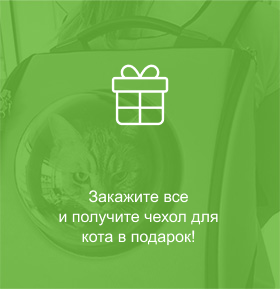
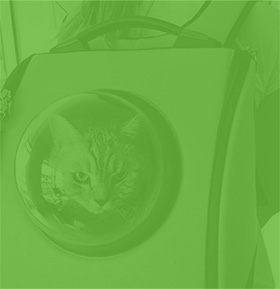
Стилизация страницы каталога

Changed region(s): [[0.2, 0.654, 0.8, 0.8408], [0.4, 0.218, 0.6286, 0.436]]

diff --git a/source/catalog.html b/source/catalog.html
@@ -7,7 +7,7 @@
   </head>
   <body>
     <header class="page-header">
-      <a class="page-header__logo">
+      <a class="page-header__logo" href="index.html">
         <svg class="page-header__logo-icon" width="34" height="38" viewBox="0 0 34 38" fill="none" xmlns="http://www.w3.org/2000/svg">
           <g clip-path="url(#clip0)">
           <path d="M6.07 20.72V18.46C12.7536 17.5423 19.4937 17.0979 26.24 17.13C26.24 17.73 26.24 18.34 26.18 18.95C28.0976 18.099 30.1128 17.4877 32.18 17.13C30.8625 13.722 28.4618 10.8412 25.3471 8.93087C22.2324 7.02052 18.5764 6.1864 14.9414 6.55683C11.3064 6.92727 7.89379 8.48172 5.22852 10.9811C2.56325 13.4804 0.792969 16.7863 0.190001 20.39L6.07 20.72Z" fill="#FDC305"/>
@@ -46,13 +46,13 @@
           </defs>
           </svg>
       </a>
-      <nav class="main-nav">
+      <nav class="page-header__main-nav main-nav">
         <button class="main-nav__toggle" type="button"><span class="visually-hidden">Открыть меню</span></button>
         <div class="main-nav__wrapper">
           <ul class="main-nav__list">
-            <li class="main-nav__item main-nav__item--current"><a href="#">Главная</a></li>
-            <li class="main-nav__item"><a href="#">Каталог продукции</a></li>
-            <li class="main-nav__item"><a href="#">Подбор программы</a></li>
+            <li class="main-nav__item"><a href="index.html">Главная</a></li>
+            <li class="main-nav__item main-nav__item--current"><a href="#">Каталог продукции</a></li>
+            <li class="main-nav__item"><a href="form.html">Подбор программы</a></li>
           </ul>
         </div>
       </nav>
@@ -60,9 +60,9 @@
 
     <main class="page-main">
       <div class="catalog">
-        <h1 class="catalog__title page-title">Каталог продукции</h1>
+        <h1 class="catalog__title page-title page-title--catalog">Каталог продукции</h1>
         <article class="catalog__card card">
-          <a class="card__link-img" href="#"><img class="card__img"></a>
+          <a class="card__link-img" href="#"><img class="card__img" src="/img/chicken-500.jpg" alt="Оранжевая упаковка со вкусом курицы весом 500г"></a>
           <h2 class="card__title product-title"><a class="card__link-title" href="#">Cat Energy pro 500 г</a></h2>
           <div class="card__meta table">
             <table class="table__body">
@@ -80,10 +80,10 @@
               </tr>
             </table>
           </div>
-          <a class="card__button button" href="form.html">Заказать</a>
+          <a class="card__button button button--order" href="form.html">Заказать</a>
         </article>
         <article class="catalog__card card">
-          <a class="card__link-img" href="#"><img class="card__img"></a>
+          <a class="card__link-img" href="#"><img class="card__img" src="/img/chicken-1000.jpg" alt="Оранжевая упаковка со вкусом курицы весом 1000г"></a>
           <h2 class="card__title product-title"><a class="card__link" href="#">Cat Energy pro 1000 г</a></h2>
           <div class="card__meta table">
             <table class="table__body">
@@ -101,10 +101,10 @@
               </tr>
             </table>
           </div>
-          <a class="card__button button" href="form.html">Заказать</a>
+          <a class="card__button button button--order" href="form.html">Заказать</a>
         </article>
         <article class="catalog__card card">
-          <a class="card__link-img" href="#"><img class="card__img"></a>
+          <a class="card__link-img" href="#"><img class="card__img" src="/img/fish-500.jpg" alt="Зеленая упаковка со вкусом рыбы весом 500г"></a>
           <h2 class="card__title product-title"><a class="card__link" href="#">Cat Energy pro 500 г</a></h2>
           <div class="card__meta table">
             <table class="table__body">
@@ -122,10 +122,10 @@
               </tr>
             </table>
           </div>
-          <a class="card__button button" href="form.html">Заказать</a>
+          <a class="card__button button button--order" href="form.html">Заказать</a>
         </article>
         <article class="catalog__card card">
-          <a class="card__link-img" href="#"><img class="card__img"></a>
+          <a class="card__link-img" href="#"><img class="card__img" src="/img/fish-1000.jpg" alt="Зеленая упаковка со вкусом рыбы весом 1000г"></a>
           <h2 class="card__title product-title"><a class="card__link" href="#">Cat Energy pro 1000 г</a></h2>
           <div class="card__meta table">
             <table class="table__body">
@@ -143,10 +143,10 @@
               </tr>
             </table>
           </div>
-          <a class="card__button button" href="form.html">Заказать</a>
+          <a class="card__button button button--order" href="form.html">Заказать</a>
         </article>
         <article class="catalog__card card">
-          <a class="card__link-img" href="#"><img class="card__img"></a>
+          <a class="card__link-img" href="#"><img class="card__img" src="/img/buckwheat-500.jpg" alt="Синяя упаковка со вкусом гречки весом 500г"></a>
           <h2 class="card__title product-title"><a class="card__link" href="#">Cat Energy pro 500 г</a></h2>
           <div class="card__meta table">
             <table class="table__body">
@@ -164,10 +164,10 @@
               </tr>
             </table>
           </div>
-          <a class="card__button button" href="form.html">Заказать</a>
+          <a class="card__button button button--order" href="form.html">Заказать</a>
         </article>
         <article class="catalog__card card">
-          <a class="card__link-img" href="#"><img class="card__img"></a>
+          <a class="card__link-img" href="#"><img class="card__img" src="/img/buckwheat-1000.jpg" alt="Синяя упаковка со вкусом гречки весом 1000г"></a>
           <h2 class="card__title product-title"><a class="card__link" href="#">Cat Energy pro 1000 г</a></h2>
           <div class="card__meta table">
             <table class="table__body">
@@ -185,10 +185,10 @@
               </tr>
             </table>
           </div>
-          <a class="card__button button" href="form.html">Заказать</a>
+          <a class="card__button button button--order" href="form.html">Заказать</a>
         </article>
         <article class="catalog__card card">
-          <a class="card__link-img" href="#"><img class="card__img"></a>
+          <a class="card__link-img" href="#"><img class="card__img" src="/img/rice-500.jpg" alt="Фиолетовая упаковка со вкусом риса весом 500г"></a>
           <h2 class="card__title product-title"><a class="card__link" href="#">Cat Energy pro 500 г</a></h2>
           <div class="card__meta table">
             <table class="table__body">
@@ -206,49 +206,56 @@
               </tr>
             </table>
           </div>
-          <a class="card__button button" href="form.html">Заказать</a>
+          <a class="card__button button button--order" href="form.html">Заказать</a>
         </article>
 
         <div class="catalog__more more">
           <svg class="more__vertical-line"></svg>
           <svg class="more__horizontal-line"></svg>
-          <p class="more__title product-title">Показать ещё 100500 товаров</p>
+          <p class="more__title product-title product-title--more">Показать ещё 100500 товаров</p>
           <p class="more__lead">На самом деле вкусов гораздо больше!</p>
-          <button class="more__button button-show-all">Показать все</button>
+          <button class="more__button button button--show-all">Показать все</button>
         </div>
 
         <div class="catalog__add">
           <h2 class="catalog__add-title">Дополнительные товары</h2>
           <div class="catalog__add-item add">
-            <p class="add__title product-title-add">Сахарозаменитель</p>
+            <p class="add__title product-title product-title--add">Сахарозаменитель</p>
             <p class="add__name">1 упаковка (100 г)</p>
             <p class="add__data">200 Р.</p>
-            <a class="add__button button" href="form.html">Заказать</a>
+            <a class="add__button button button--order" href="form.html">Заказать</a>
           </div>
 
           <div class="catalog__add-item add">
-            <p class="add__title product-title-add">Питьевая вода</p>
+            <p class="add__title product-title product-title--add">Питьевая вода</p>
             <p class="add__name">5 литров</p>
             <p class="add__data">50 Р.</p>
-            <a class="add__button button" href="form.html">Заказать</a>
+            <a class="add__button button button--order" href="form.html">Заказать</a>
           </div>
 
           <div class="catalog__add-item add">
-            <p class="add__title product-title-add">Молоко</p>
+            <p class="add__title product-title product-title--add">Молоко</p>
             <p class="add__name">1 литр</p>
             <p class="add__data">100 Р.</p>
-            <a class="add__button button" href="form.html">Заказать</a>
+            <a class="add__button button button--order" href="form.html">Заказать</a>
           </div>
 
           <div class="catalog__add-item add">
-            <p class="add__title product-title-add">Витамины</p>
+            <p class="add__title product-title product-title--add">Витамины</p>
             <p class="add__name">1 упаковка (30 г)</p>
             <p class="add__data">300 Р.</p>
-            <a class="add__button button" href="form.html">Заказать</a>
+            <a class="add__button button button--order" href="form.html">Заказать</a>
           </div>
 
-          <div class="catalog__add-item offer">
-            <svg class="offer__icon-gift"></svg>
+          <div class="catalog__add-offer offer">
+            <svg class="offer__icon-gift" width="78" height="80" viewBox="0 0 78 80" fill="none" xmlns="http://www.w3.org/2000/svg">
+              <path d="M64.0156 34.7129H14.031C12.2766 34.7129 10.8494 33.2954 10.8494 31.5526V22.0845C10.8494 20.3417 12.2766 18.9236 14.031 18.9236H64.0149C65.7687 18.9236 67.1953 20.3417 67.1953 22.0845V31.5533C67.1959 33.2954 65.7693 34.7129 64.0156 34.7129ZM14.031 21.3457C13.6276 21.3457 13.2869 21.6842 13.2869 22.0845V31.5533C13.2869 31.9602 13.6208 32.2914 14.031 32.2914H64.0149C64.4244 32.2914 64.7578 31.9602 64.7578 31.5533V22.0845C64.7578 21.6836 64.4171 21.3457 64.0149 21.3457H14.031Z" fill="white"/>
+              <path d="M57.0447 67.1491H20.999C17.6218 67.1491 14.8741 64.4193 14.8741 61.0628V33.5018C14.8741 32.8333 15.4201 32.2908 16.0929 32.2908C16.7656 32.2908 17.3116 32.8333 17.3116 33.5018V61.0628C17.3116 63.0835 18.9661 64.7269 20.999 64.7269H57.0447C59.077 64.7269 60.7308 63.0835 60.7308 61.0628V33.5018C60.7308 32.8333 61.2768 32.2908 61.9496 32.2908C62.6223 32.2908 63.1683 32.8333 63.1683 33.5018V61.0628C63.1683 64.4193 60.4213 67.1491 57.0447 67.1491Z" fill="white"/>
+              <path d="M39.0225 67.1491C38.3498 67.1491 37.8038 66.6071 37.8038 65.938V33.5018C37.8038 32.8333 38.3498 32.2908 39.0225 32.2908C39.6953 32.2908 40.2413 32.8333 40.2413 33.5018V65.9374C40.2413 66.6071 39.6959 67.1491 39.0225 67.1491Z" fill="white"/>
+              <path d="M23.8113 21.3416C19.9966 19.2876 18.5731 14.533 20.6383 10.7417C22.7022 6.95225 27.4864 5.53711 31.303 7.58746C37.117 10.7169 40.2565 19.4475 40.3869 19.8175L38.0877 20.621C38.0585 20.5387 35.1256 12.3997 30.1433 9.71773C27.5078 8.30199 24.2062 9.27933 22.7821 11.8946C21.3567 14.5124 22.339 17.7944 24.9734 19.2119L23.8113 21.3416Z" fill="white"/>
+              <path d="M54.2313 21.3416L53.071 19.2113C54.3477 18.524 55.2782 17.385 55.6926 16.0038C56.1063 14.622 55.9534 13.1626 55.2617 11.8952C54.5719 10.6266 53.4263 9.70258 52.0363 9.29142C50.6457 8.88026 49.1783 9.03164 47.9023 9.71771C42.9201 12.399 39.9871 20.538 39.9579 20.6204L37.6587 19.8168C37.7891 19.4469 40.928 10.7162 46.7421 7.58744C48.5897 6.59315 50.7182 6.37394 52.7316 6.96979C54.7468 7.56503 56.4061 8.90508 57.4061 10.7417C58.4073 12.5777 58.6285 14.6916 58.0289 16.6941C57.4287 18.696 56.0801 20.3461 54.2313 21.3416Z" fill="white"/>
+              <path d="M61.9496 50.9317H16.0929C15.4201 50.9317 14.8741 50.3891 14.8741 49.7206C14.8741 49.0521 15.4201 48.5095 16.0929 48.5095H61.9496C62.6223 48.5095 63.1683 49.0521 63.1683 49.7206C63.1683 50.3891 62.6229 50.9317 61.9496 50.9317Z" fill="white"/>
+            </svg>
             <p class="offer__text">Закажите все и получите чехол для кота в подарок!</p>
           </div>
         </div>
@@ -257,7 +264,7 @@
 
     <footer class="page-footer">
       <div class="page-footer__address address">
-        <p class="address__invite">Приглашаем к сотрудничеству диллеров!</p>
+        <p class="address__invite title-style">Приглашаем к сотрудничеству диллеров!</p>
         <p class="address__name">ул.Бол.Конюшенная д.19/8</p>
         <p class="address__city">Санкт-Петербург</p>
       </div>
@@ -322,6 +329,7 @@
           </a>
         </div>
       </div>
+
     </footer>
   </body>
 </html>

diff --git a/source/sass/style.scss b/source/sass/style.scss
@@ -5,12 +5,15 @@
 @import "base/base";
 @import "base/typography";
 //Components
+@import "components/add";
 @import "components/address";
 @import "components/advantages";
 @import "components/button";
 @import "components/card-advantages";
 @import "components/card-example";
 @import "components/card-goal";
+@import "components/card";
+@import "components/catalog";
 @import "components/copy";
 @import "components/data-field";
 @import "components/data-owner";
@@ -20,8 +23,10 @@
 @import "components/goals";
 @import "components/logo";
 @import "components/main-nav";
+@import "components/more";
 @import "components/needs-field";
 @import "components/needs";
+@import "components/offer";
 @import "components/option-field";
 @import "components/option";
 @import "components/page-footer";
@@ -29,6 +34,8 @@
 @import "components/page-main";
 @import "components/promo";
 @import "components/results";
+@import "components/row";
 @import "components/slider";
 @import "components/soc-button";
 @import "components/socials";
+@import "components/table";

diff --git a/source/form.html b/source/form.html
@@ -7,7 +7,7 @@
   </head>
   <body>
     <header class="page-header">
-      <a class="page-header__logo">
+      <a class="page-header__logo" href="index.html">
         <svg class="page-header__logo-icon" width="34" height="38" viewBox="0 0 34 38" fill="none" xmlns="http://www.w3.org/2000/svg">
           <g clip-path="url(#clip0)">
           <path d="M6.07 20.72V18.46C12.7536 17.5423 19.4937 17.0979 26.24 17.13C26.24 17.73 26.24 18.34 26.18 18.95C28.0976 18.099 30.1128 17.4877 32.18 17.13C30.8625 13.722 28.4618 10.8412 25.3471 8.93087C22.2324 7.02052 18.5764 6.1864 14.9414 6.55683C11.3064 6.92727 7.89379 8.48172 5.22852 10.9811C2.56325 13.4804 0.792969 16.7863 0.190001 20.39L6.07 20.72Z" fill="#FDC305"/>

diff --git a/source/index.html b/source/index.html
@@ -7,7 +7,7 @@
   </head>
   <body>
     <header class="page-header">
-      <a class="page-header__logo">
+      <a class="page-header__logo" href="#">
         <svg class="page-header__logo-icon" width="34" height="38" viewBox="0 0 34 38" fill="none" xmlns="http://www.w3.org/2000/svg">
           <g clip-path="url(#clip0)">
           <path d="M6.07 20.72V18.46C12.7536 17.5423 19.4937 17.0979 26.24 17.13C26.24 17.73 26.24 18.34 26.18 18.95C28.0976 18.099 30.1128 17.4877 32.18 17.13C30.8625 13.722 28.4618 10.8412 25.3471 8.93087C22.2324 7.02052 18.5764 6.1864 14.9414 6.55683C11.3064 6.92727 7.89379 8.48172 5.22852 10.9811C2.56325 13.4804 0.792969 16.7863 0.190001 20.39L6.07 20.72Z" fill="#FDC305"/>

diff --git a/source/sass/base/base.scss b/source/sass/base/base.scss
@@ -34,7 +34,8 @@ a {
   @include title(36px, 36px);
   color: $color-white;
 
-  &--form {
+  &--form,
+  &--catalog {
     color: $color-black;
   }
 }
@@ -43,6 +44,18 @@ a {
   @include title(36px, 40px);
   margin: 0;
   padding-top: 27px;
+}
+
+.product-title {
+  margin: 0;
+
+  @include title(16px, 20px);
+  text-transform: uppercase;
+  color: $color-mine-shaft;
+
+  &--more {
+    color: $color-cod-gray;
+  }
 }
 
 .visually-hidden {

diff --git a/source/sass/components/page-main.scss b/source/sass/components/page-main.scss
@@ -1,16 +1,16 @@
 .page-main {
   outline: 3px solid blue;
   padding: 0 20px 0;
+}
 
-  &__card {
-    margin-bottom: 42px;
-  }
+.page-main__card {
+  margin-bottom: 42px;
+}
 
-  &__goals {
-    margin-bottom: 27px;
-  }
+.page-main__goals {
+  margin-bottom: 27px;
+}
 
-  &__promo {
-    margin-bottom: 20px;
-  }
+.page-main__promo {
+  margin-bottom: 20px;
 }

diff --git a/source/sass/components/button.scss b/source/sass/components/button.scss
@@ -6,4 +6,16 @@
   color: $color-white;
   background-color: $color-apple;
   border: none;
+
+  &--show-all {
+    font-size: 16px;
+    line-height: 20px;
+    color: $color-black;
+    background-color: $color-concrete;
+  }
+
+  &--order {
+    font-size: 16px;
+    line-height: 20px;
+  }
 }

diff --git a/source/sass/components/catalog.scss b/source/sass/components/catalog.scss
@@ -1,0 +1,15 @@
+.catalog {
+  outline: 3px solid tan;
+  padding-top: 27px;
+  font-size: 12px;
+  line-height: 16px;
+}
+
+.catalog__add-title {
+  @include title(24px, 24px);
+  color: $color-black;
+}
+
+// .catalog__add-item:last-of-type {
+//   margin-bottom: 39px;
+// }

diff --git a/source/sass/components/offer.scss b/source/sass/components/offer.scss
@@ -1,0 +1,9 @@
+.offer {
+  outline: 3px solid green;
+  text-align: center;
+  font-size: 16px;
+  line-height: 20px;
+  color: $color-white;
+  background: url("/img/catalog-bg-gift.png") no-repeat center/cover;
+  background-color: $color-apple;
+}

diff --git a/source/sass/abstracts/variables.scss b/source/sass/abstracts/variables.scss
@@ -10,6 +10,7 @@ $color-gray: #111111;
 $color-dove-gray: #666666;
 $color-tundora: #444444;
 $color-mine-shaft: #222222;
+$color-cod-gray: #111111;
 
 $color-concrete: #f2f2f2;
 $color-silver: #cdcdcd;

diff --git a/source/sass/components/card.scss b/source/sass/components/card.scss
@@ -1,0 +1,8 @@
+.card {
+  outline: 3px solid greenyellow;
+  padding: 11px 0 14px;
+}
+
+.card__meta {
+  margin-bottom: 22px;
+}

diff --git a/source/sass/components/add.scss b/source/sass/components/add.scss
@@ -1,0 +1,6 @@
+.add {
+  outline: 3px solid red;
+  padding: 13px 0 19px;
+  font-size: 14px;
+  line-height: 14px;
+}
